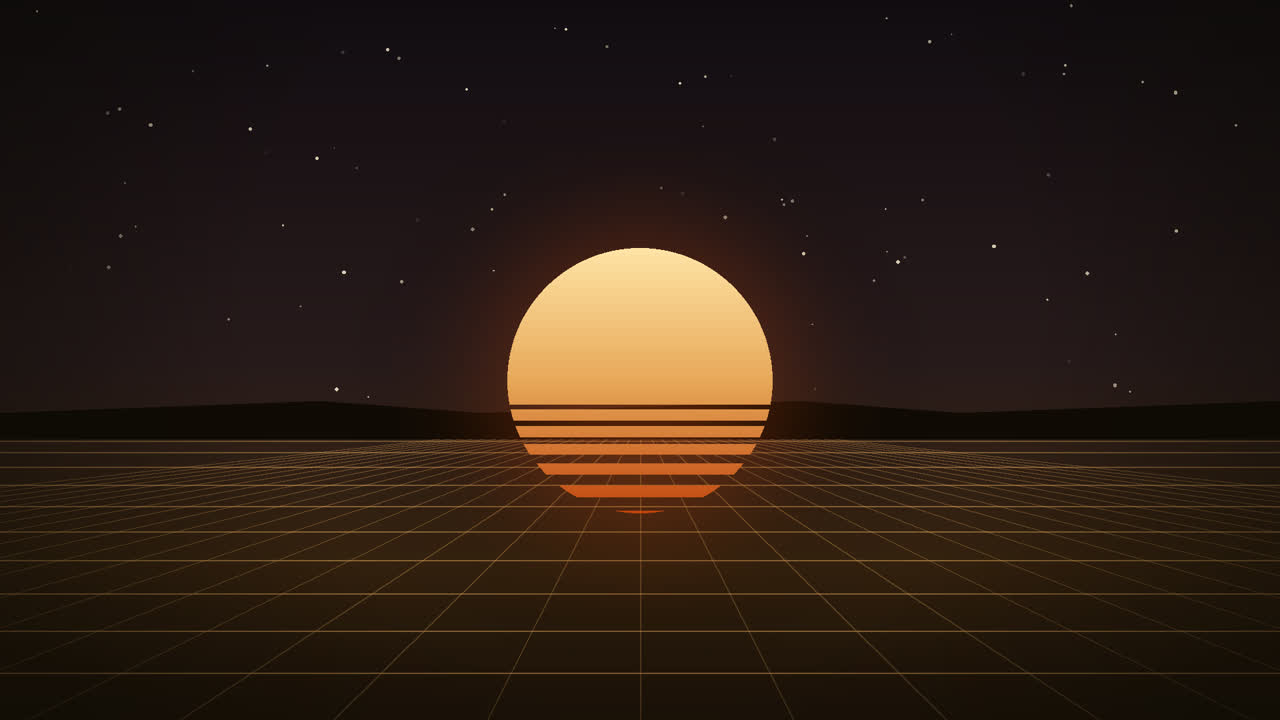
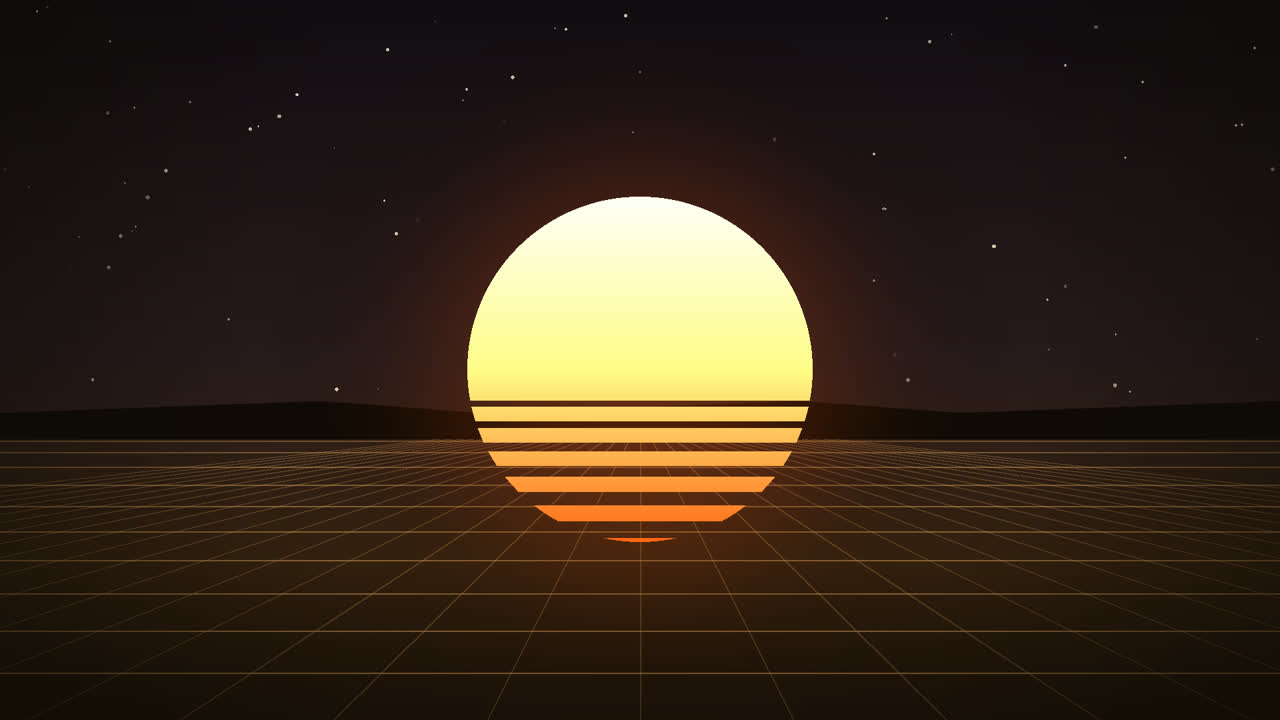
Make hero sun 50% brighter and 30% larger
Brightened the sun gradient by 1.5x and grew its radius by 30% for a
hotter, more dominant sunset. Re-rendered and re-encoded the loop; added
?v=2 to the video and poster so the update shows without a hard refresh.

Changed region(s): [[0.3438, 0.275, 0.6562, 0.7639]]

diff --git a/index.html b/index.html
@@ -166,8 +166,8 @@
   <!-- HERO -->
   <section class="hero">
     <div class="hero-media" aria-hidden="true">
-      <video autoplay muted loop playsinline poster="/assets/hero-poster.jpg">
-        <source src="/assets/hero.mp4" type="video/mp4" />
+      <video autoplay muted loop playsinline poster="/assets/hero-poster.jpg?v=2">
+        <source src="/assets/hero.mp4?v=2" type="video/mp4" />
       </video>
     </div>
     <span class="mono-label hero__eyebrow">AI Integration Specialists</span>